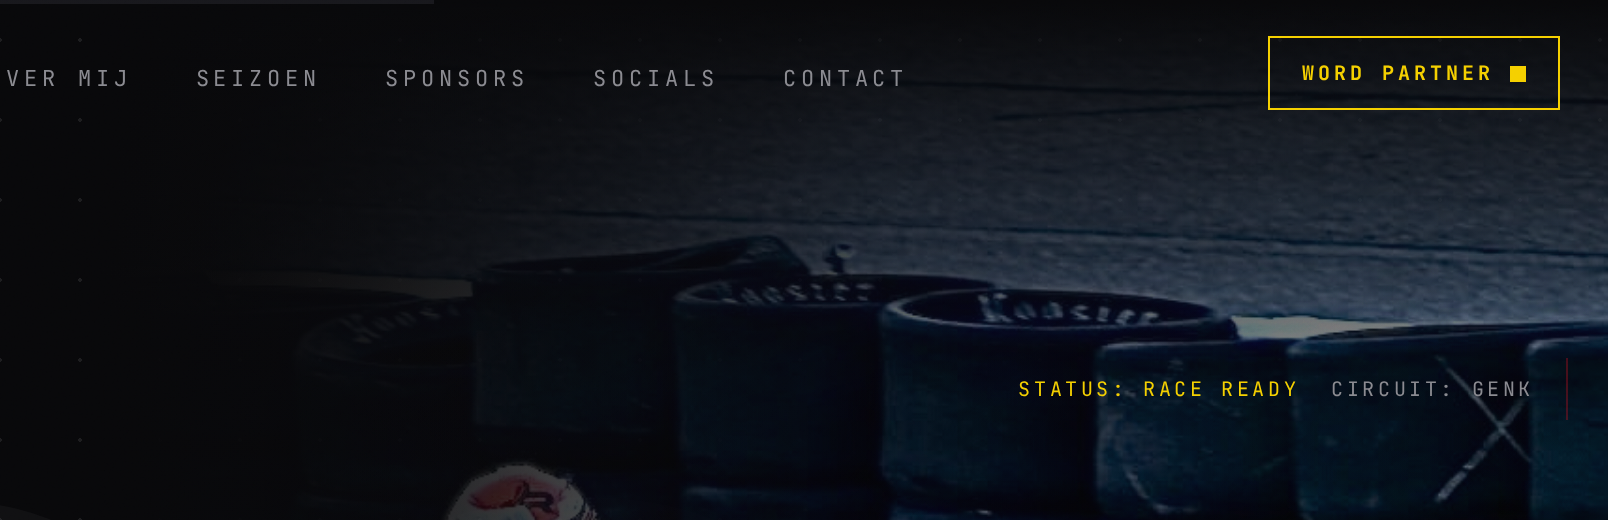
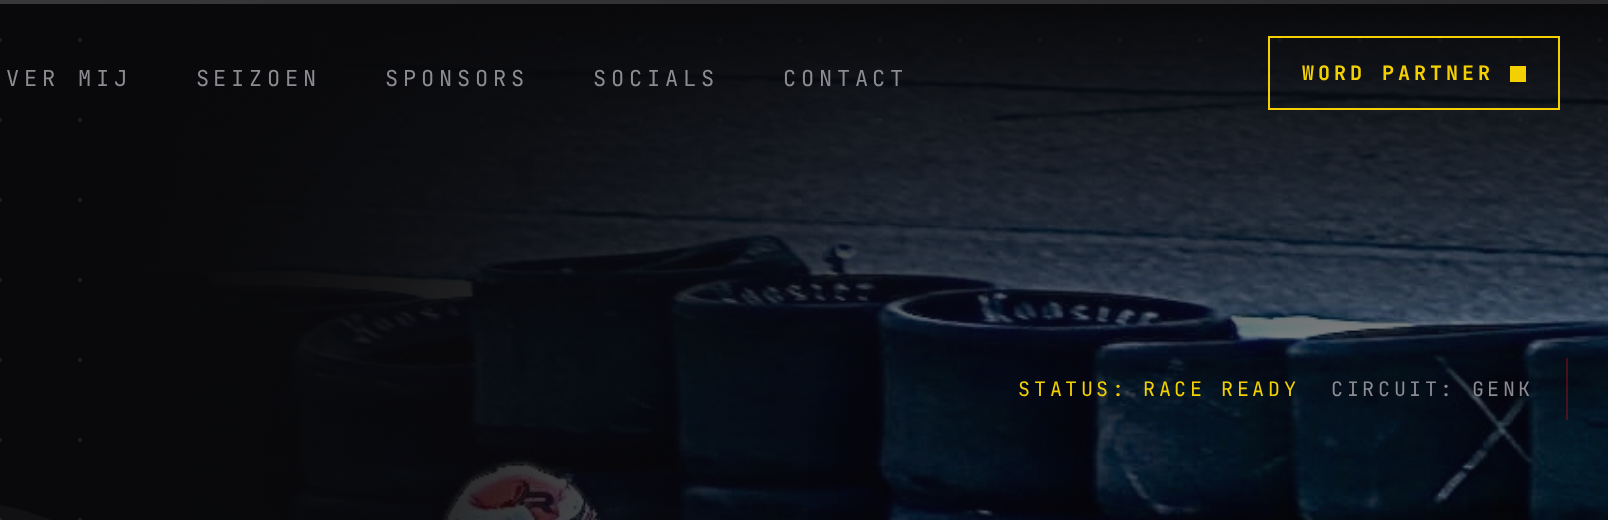
Changes

Changed region(s): [[0.0, 0.0, 1.0, 0.0308]]

diff --git a/src/styles.css b/src/styles.css
@@ -122,8 +122,8 @@ body::after {
   background: linear-gradient(
     90deg,
     var(--accent) 0 18%,
-    color-mix(in srgb, var(--border) 70%, transparent) 18% 55%,
-    transparent 55% 100%
+    color-mix(in srgb, var(--foreground) 22%, transparent) 18%,
+    color-mix(in srgb, var(--foreground) 14%, transparent) 100%
   );
   height: 2px;
 }
